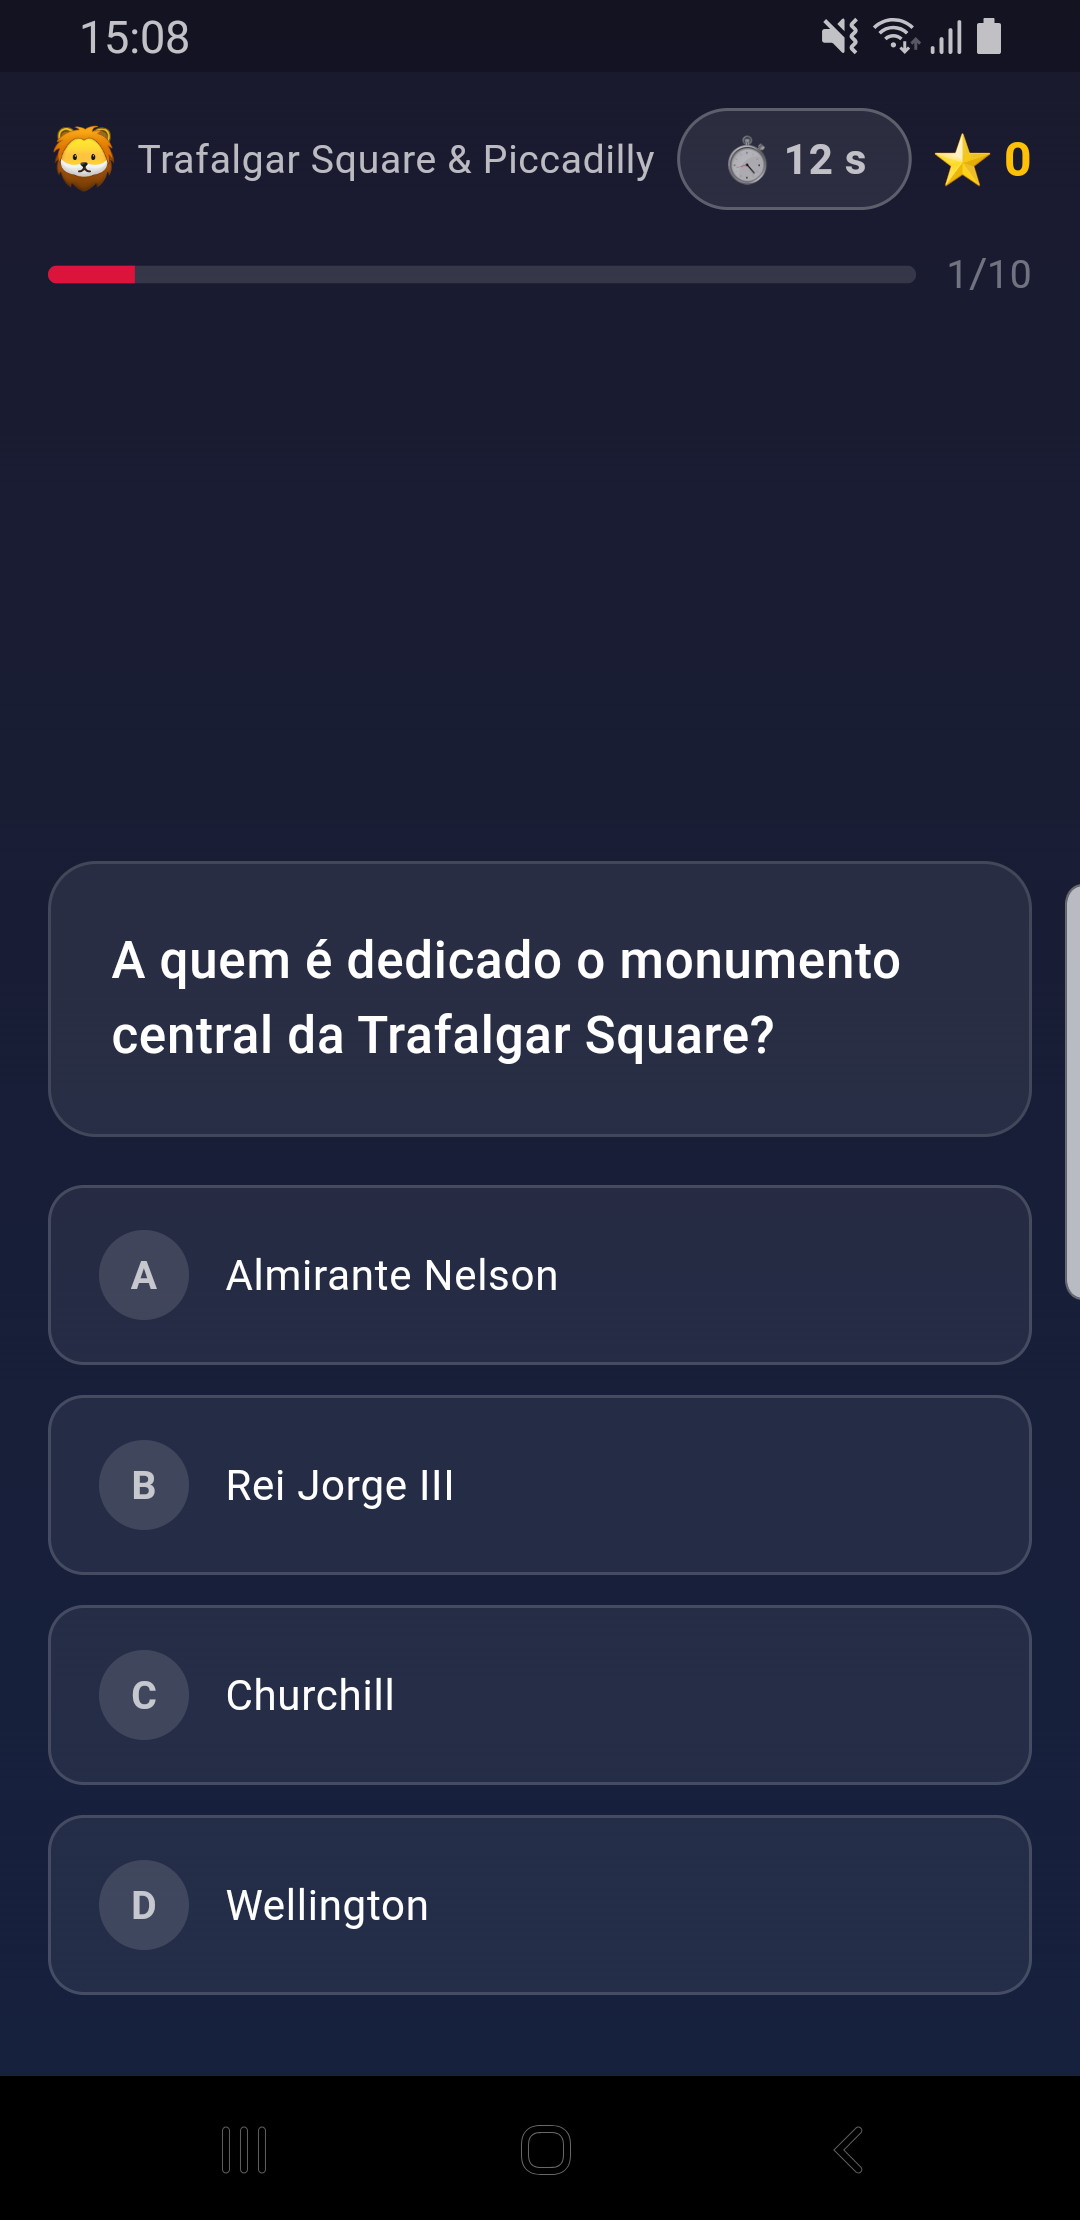
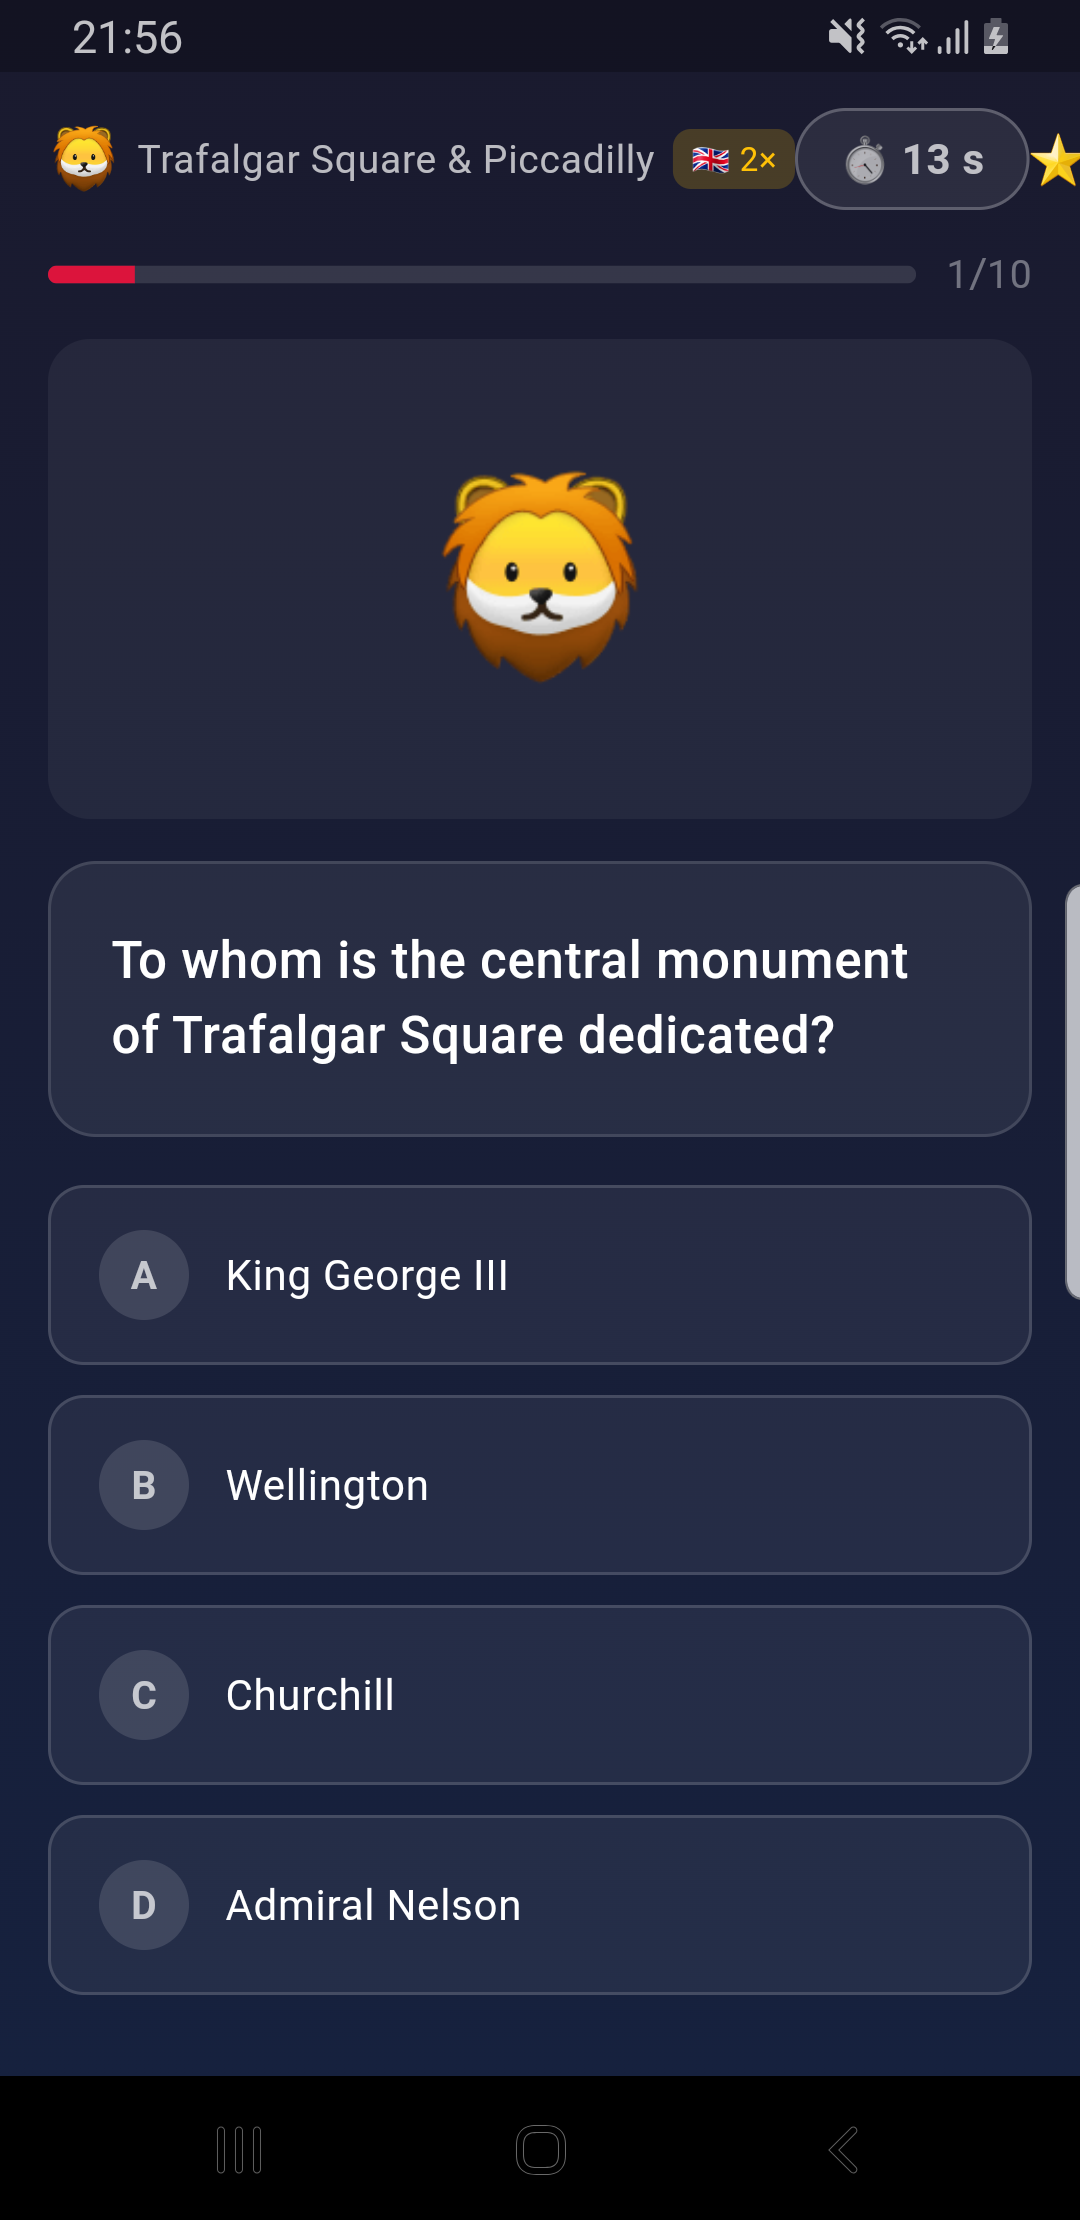
docs: update README and screenshots for v1.0.9

diff --git a/README.md b/README.md
@@ -11,10 +11,10 @@ Ana uses teach mode to prepare the explanations.
 
 <p align="center">
   <img src="docs/screenshots/player_select.png" width="18%" alt="Player Select" />
-  <img src="docs/screenshots/home.png" width="18%" alt="Home" />
-  <img src="docs/screenshots/day.png" width="18%" alt="Day Screen" />
+  <img src="docs/screenshots/home.png" width="18%" alt="Home (Pedro)" />
+  <img src="docs/screenshots/home_ana.png" width="18%" alt="Home (Ana)" />
   <img src="docs/screenshots/quiz.png" width="18%" alt="Quiz" />
-  <img src="docs/screenshots/teach.png" width="18%" alt="Teach Mode" />
+  <img src="docs/screenshots/lang_dialog.png" width="18%" alt="Language Dialog" />
 </p>
 
 ---
@@ -25,22 +25,24 @@ Ana uses teach mode to prepare the explanations.
 |--------|------|
 | 👧 Inês | Quiz (PT or EN) |
 | 👦 Pedro | Quiz (PT or EN) |
-| 👩 Ana | Teach mode + day score reset |
+| 👩 Ana | Teach mode + day score reset + bonus toggle |
 
 ---
 
 ## Features
 
-- **4 days × 13 attractions × 10 questions** — 130 questions total
-- **Bilingual quiz** — choose Portuguese (normal points) or English (2× points)
+- **4 days × 13 attractions** — 20 questions per attraction, 10 drawn randomly each session
+- **Bonus round** — Coimbra (Day 5), unlocked by Ana for Inês & Pedro when ready
+- **Bilingual quiz** — Portuguese (normal points) or English (2× points)
+- **Timer** — 20 s per question (PT) or 30 s (EN), with animated progress bar
 - Answer options shuffled randomly on every question
 - Per-player best score saved locally (SharedPreferences)
 - Retake any quiz — only improves score, never lowers it
-- 15-second timer per question
 - Fun fact revealed after each answer
 - Attraction photo loaded from Wikimedia Commons
-- Ana's teach mode: all questions with correct answers + explanations revealed
+- Ana's teach mode: all 20 questions with correct answers + explanations
 - Ana can reset day scores for Pedro or Inês individually
+- Ana controls bonus round visibility via 🎓🔓 / 🎓🔒 toggle
 
 ---
 
@@ -52,6 +54,7 @@ Ana uses teach mode to prepare the explanations.
 | 2 | 30 Apr | Natural History Museum, Hyde Park, Science Museum |
 | 3 | 1 May | British Museum, Madame Tussauds, Buckingham Palace |
 | 4 | 2 May | Tower of London, Tower Bridge, HMS Belfast, St Paul's, Millennium Bridge |
+| 🎓 | Bónus | Coimbra — Cidade dos Estudantes |
 
 ---
 
@@ -59,7 +62,7 @@ Ana uses teach mode to prepare the explanations.
 
 - Flutter (Dart) — Android & iOS
 - `shared_preferences` — local score persistence
-- `package_info_plus` — build version display
+- `package_info_plus` — build version display (auto-synced with git tag)
 - Wikimedia Commons — attraction images
 - GitHub Actions — CI/CD: test → build APK + IPA → GitHub Release on tag
 
@@ -68,11 +71,13 @@ Ana uses teach mode to prepare the explanations.
 ## CI/CD
 
 Every push to `main`:
-1. `flutter analyze` + `flutter test`
-2. `flutter build apk --release` (Ubuntu)
-3. `flutter build ipa --no-codesign` (macOS)
+1. `flutter analyze` + `flutter test` (coverage ≥ 60%)
+2. Integration tests on Android emulator
+3. `flutter build apk --release` (Ubuntu)
+4. `flutter build ipa --no-codesign` (macOS)
 
 On `v*` tag push:
+- Version in `pubspec.yaml` automatically set from tag name before build
 - GitHub Release created automatically
 - APK + IPA attached to the release
 
